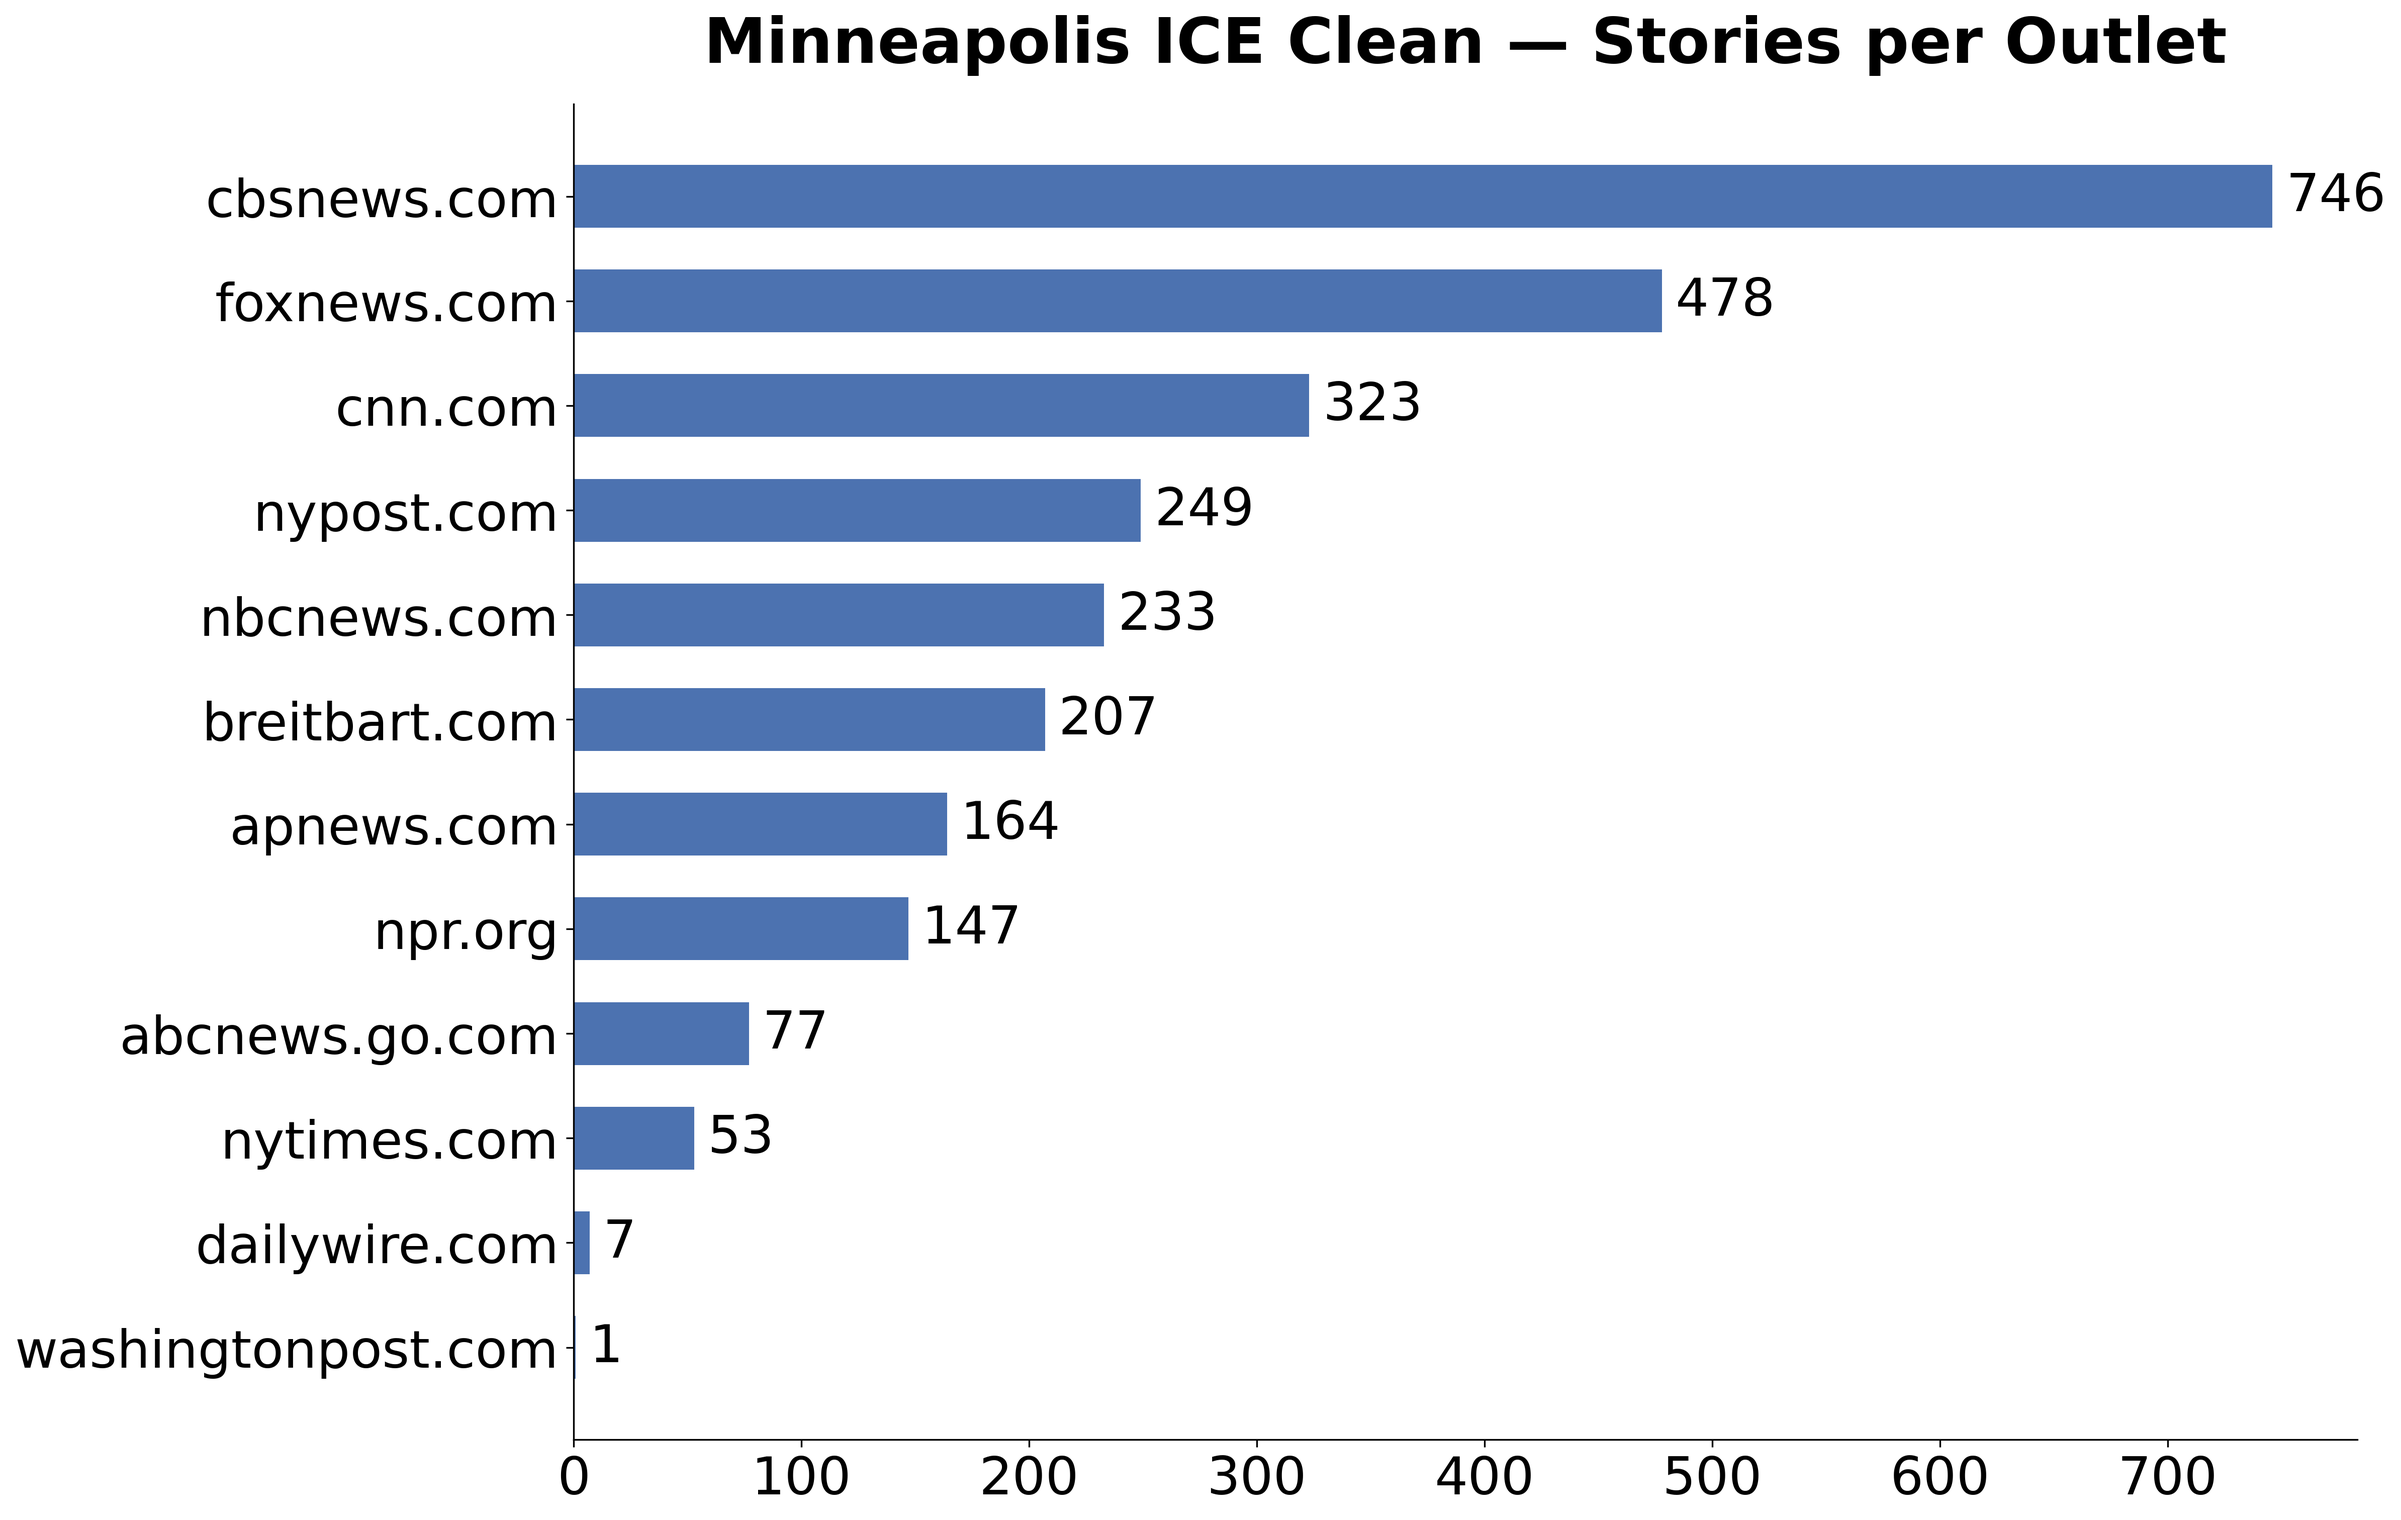
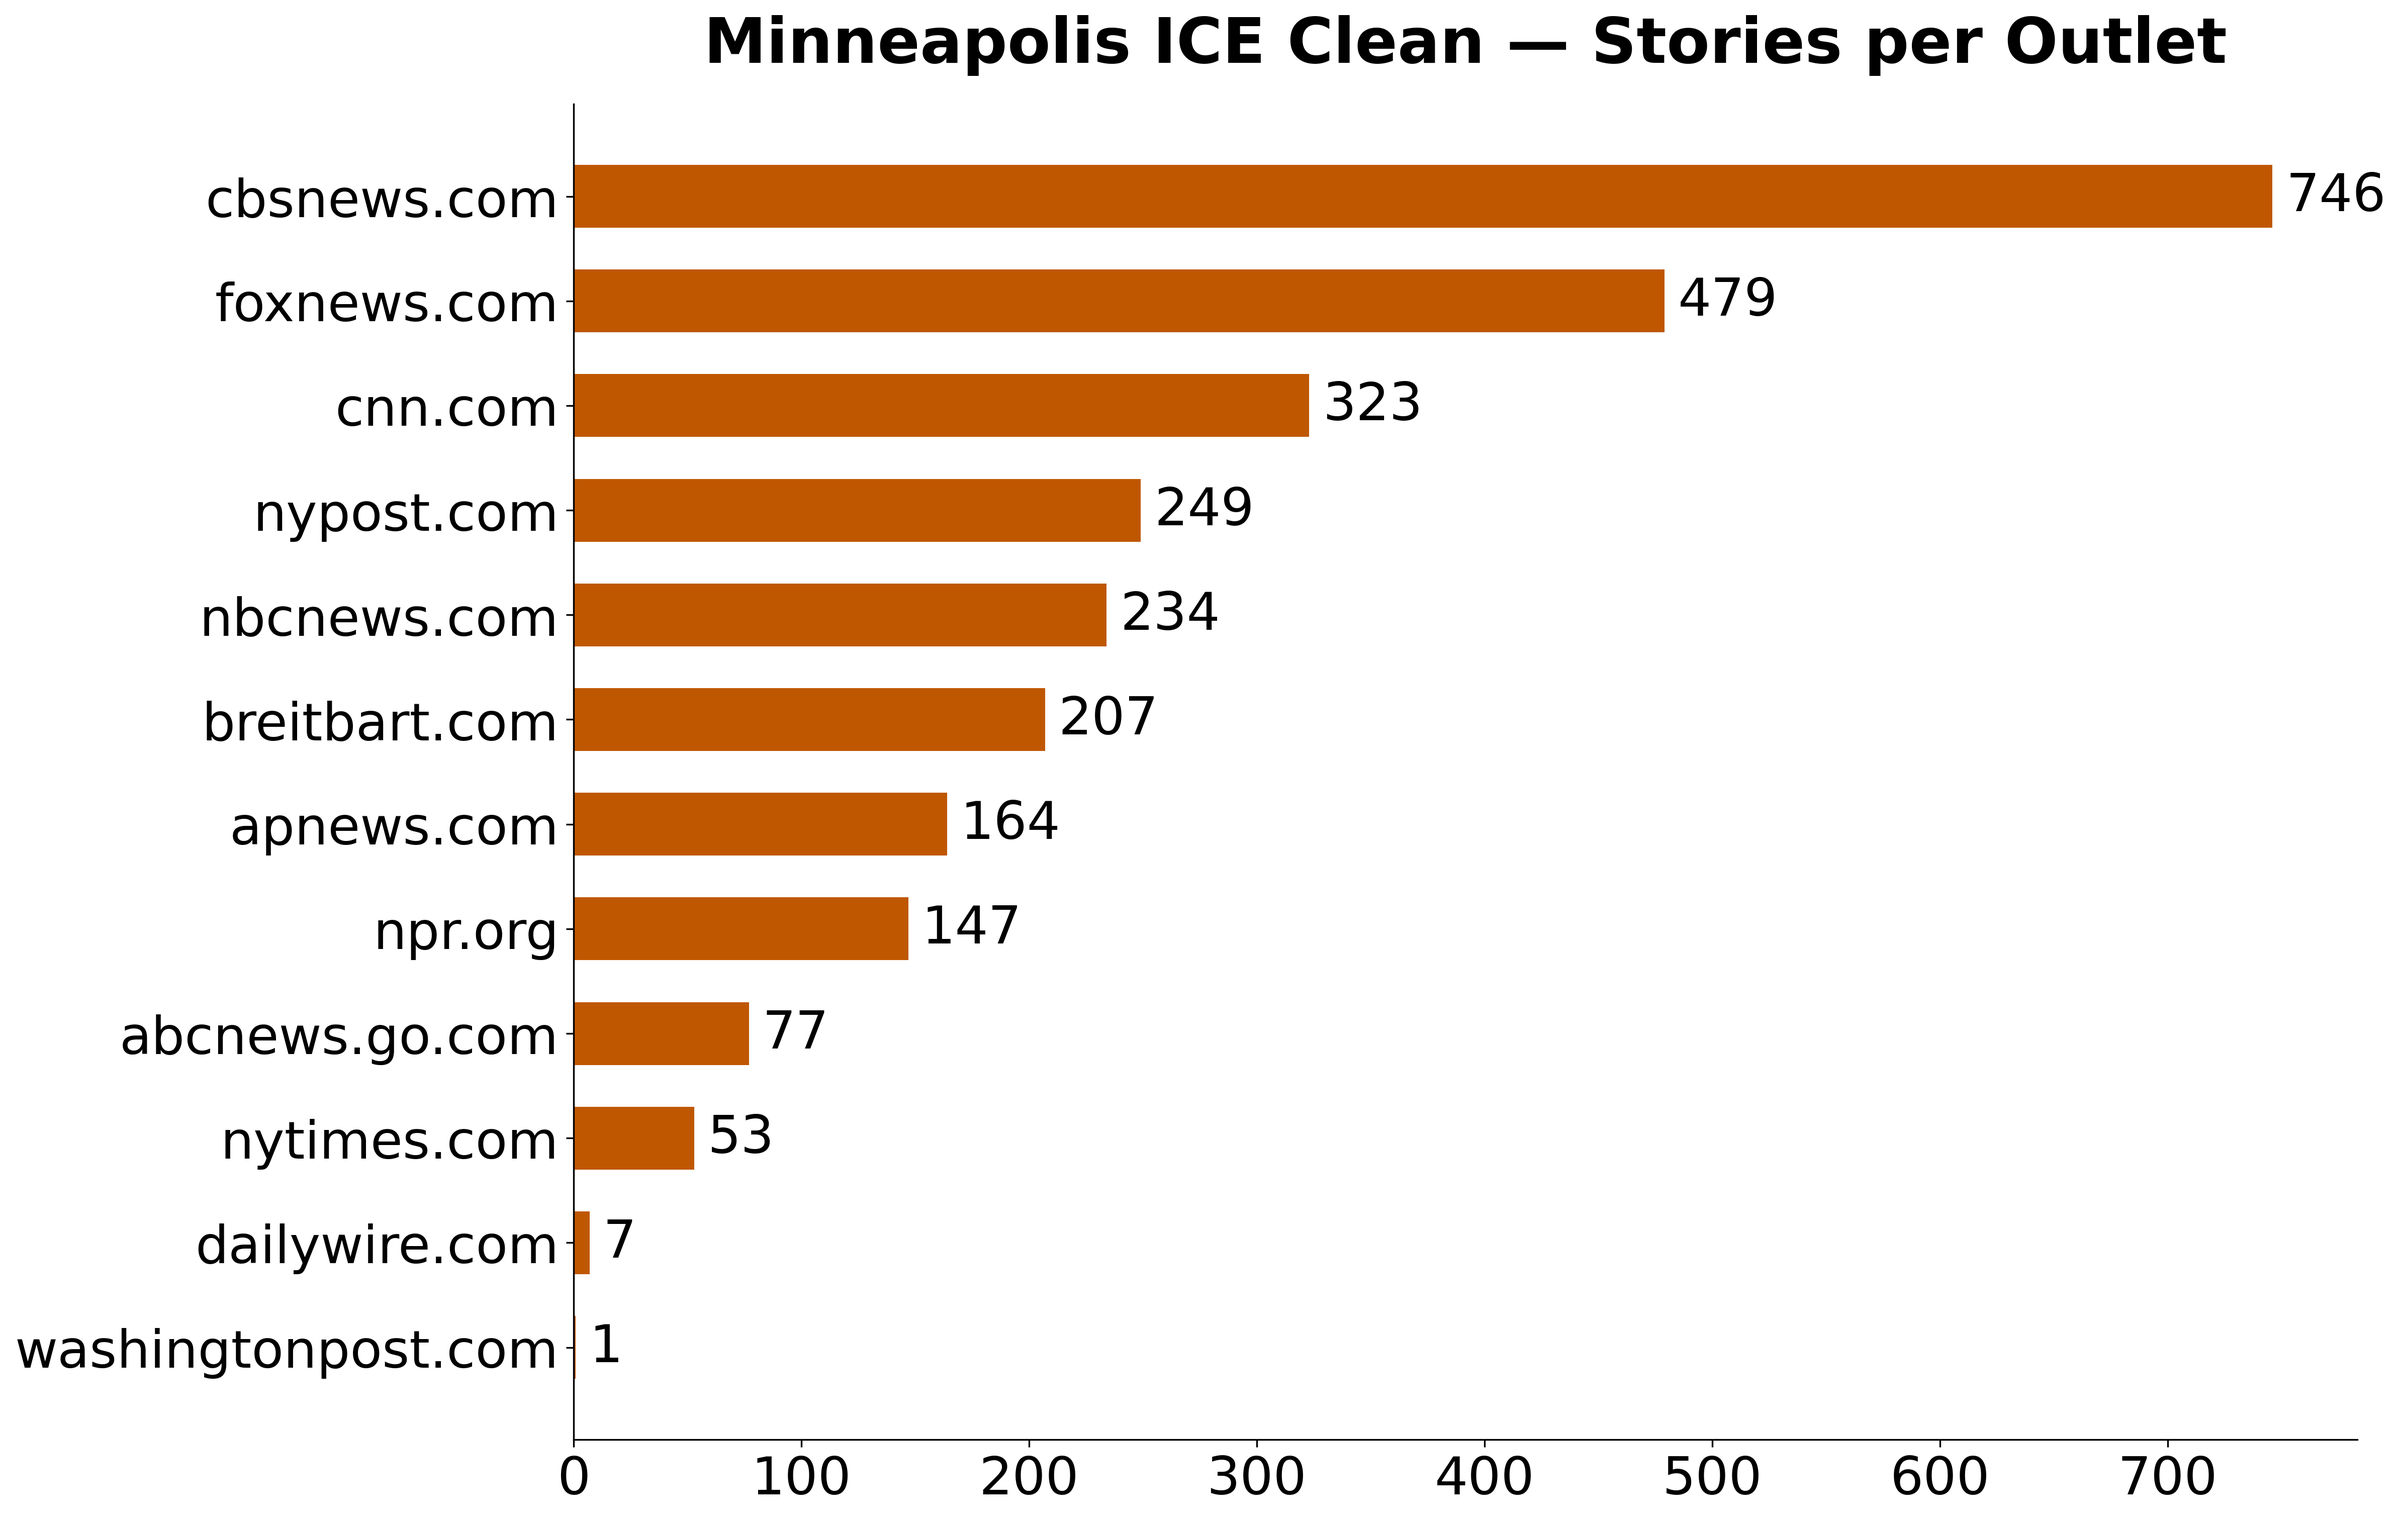
improving descriptions of kb, for appendix

Changed region(s): [[0.2184, 0.0933, 0.9671, 0.7771], [0.2184, 0.8082, 0.2496, 0.8393]]

diff --git a/gists/clean-report-minneapolis-ice.py b/gists/clean-report-minneapolis-ice.py
@@ -128,7 +128,7 @@ def save_outlet_chart(labels: list, values: list, output_path: Path):
     fig, ax = plt.subplots(figsize=(16, fig_h))
 
     y_pos = range(n)
-    bars = ax.barh(list(y_pos), values, color="#4C72B0", height=0.6)
+    bars = ax.barh(list(y_pos), values, color="#BF5700", height=0.6)
     ax.set_yticks(list(y_pos))
     ax.set_yticklabels(labels, fontsize=25)
     ax.invert_yaxis()
@@ -151,7 +151,7 @@ def save_outlet_chart(labels: list, values: list, output_path: Path):
 
 
 def save_date_chart(dates: list, values: list, title: str,
-                    output_path: Path, color: str = "#2196F3", is_float: bool = False):
+                    output_path: Path, color: str = "#BF5700", is_float: bool = False):
     """Vertical bar chart with a count label on every bar."""
     n = len(dates)
     fig_w = max(24, n * 0.6)
@@ -308,7 +308,7 @@ def main():
         d_labels, d_vals,
         title="Minneapolis ICE Clean — Stories per Day",
         output_path=img("by-date"),
-        color="#2196F3",
+        color="#BF5700",
     )
 
     r_labels = [d for d, _ in rolling_sorted]
@@ -317,7 +317,7 @@ def main():
         r_labels, r_vals,
         title="Minneapolis ICE Clean — Stories per Day (7-Day Rolling Avg)",
         output_path=img("by-date-7d-rolling"),
-        color="#4CAF50",
+        color="#BF5700",
         is_float=True,
     )
 

diff --git a/gists/describe-kb/minneapolis/2026-02-20/2026-02-20.md b/gists/describe-kb/minneapolis/2026-02-20/2026-02-20.md
@@ -8,7 +8,7 @@ Appendix based on:
 
 - Source: `clean-minneapolis-ice.jsonl` (in Gist `16c75a94d276d2800a44e3c2437f40e4`)
 - Script: `mina-pipeline/gists/clean-report-minneapolis-ice.py`
-- Time: 2026-02-20 12:05:32
+- Time: 2026-02-20 13:04:17
 
 ## Summary
 
@@ -20,7 +20,7 @@ Appendix based on:
     \textbf{Metric} & \textbf{Value} \\
     \midrule
     \rowcolor{gray!15}
-    \textbf{Total stories} & 2,685 \\
+    \textbf{Total stories} & 2,687 \\
     \addlinespace
     \rowcolor{white}
     \textbf{Date range} & 2025-12-26 → 2026-02-20 \\
